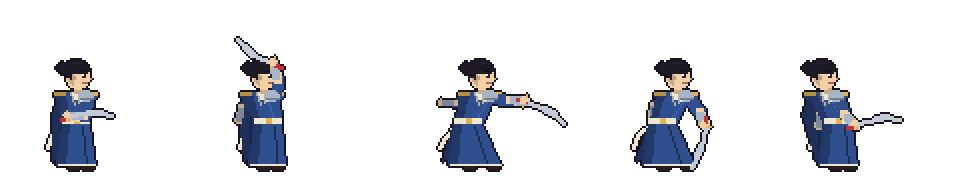
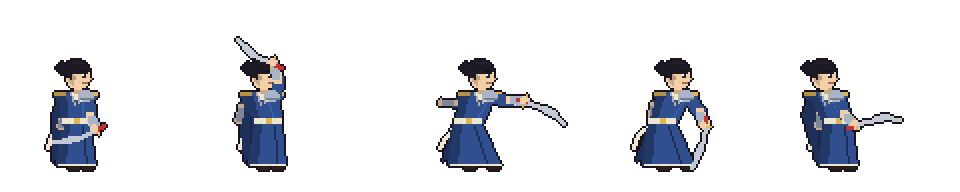
Jun keeps the low stance as Swordmaster

Changed region(s): [[0.0312, 0.5625, 0.125, 0.75]]

diff --git a/js/14b-cast.js b/js/14b-cast.js
@@ -71,7 +71,7 @@ const CAST=[
   {id:'sigrun',name:'Sigrun',cls:'Drake Rider',wk:'ironSpear',joins:'run',look:{body:'tunic',fem:true,style:'tail',hair:'#4a3a30',skin:'#f6dcc4',cloth:'#2a2630',pants:'#3a2430',sash:'#c8322e',shawl:'#a8322e',cape:true,capeC:'#6a2a5a',mount:'wyvern',horse:'#4f8a4a',eye:'#5a4a7a'}},
   {id:'kaya',name:'Kaya',cls:'Horse Archer',wk:'shortBow',joins:'run',look:{fem:true,style:'long',hair:'#d8c8ec',skin:'#e8b98f',cloth:'#8a6a4a',pants:'#5a4a32',sash:'#8a5a9a',horse:'#8a8f9a',eye:'#5a4a7a'}},
   {id:'jun',name:'Jun',cls:'Swordsman',wk:'ironJian',joins:'run',look:{body:'robe',style:'topknot',hair:'#1d1a24',skin:'#f3cfa6',cloth:'#2f4f8f',sash:'#efe6cf',stance:'low',style:'bunback',eye:'#2a2230'},
-    asc:{'Swordmaster':{wk:'moonDao',look:{capeC:'#1e2f5a',stance:'draw',tails:'#efe6cf',bracers:'#a8b4c8',lapels:'#efe6cf',noCrown:true}}}},
+    asc:{'Swordmaster':{wk:'moonDao',look:{capeC:'#1e2f5a',tails:'#efe6cf',bracers:'#a8b4c8',lapels:'#efe6cf',noCrown:true}}}},
   {id:'ash',name:'Ash',cls:'Pyromancer',wk:'flameT',joins:'run',look:{style:'short',hair:'#3a2a20',skin:'#e8b98f',cloth:'#a8322a',sash:'#e2b553',collar:'#a8322a',gear:'circlet',hand:true,eye:'#6a3a2a'},
     asc:{'Pyrolord':{look:{capeC:'#5a1a1a',el:'#ffb03c',style:'wild',hair:'#8a2a22',body:'robe',hem:'#ff8a3c'}},
          'Archmage':{wk:'meteorT',look:{capeC:'#3a1a3a',cloth:'#7a2a4a',collar:'#7a2a4a'}}}},
